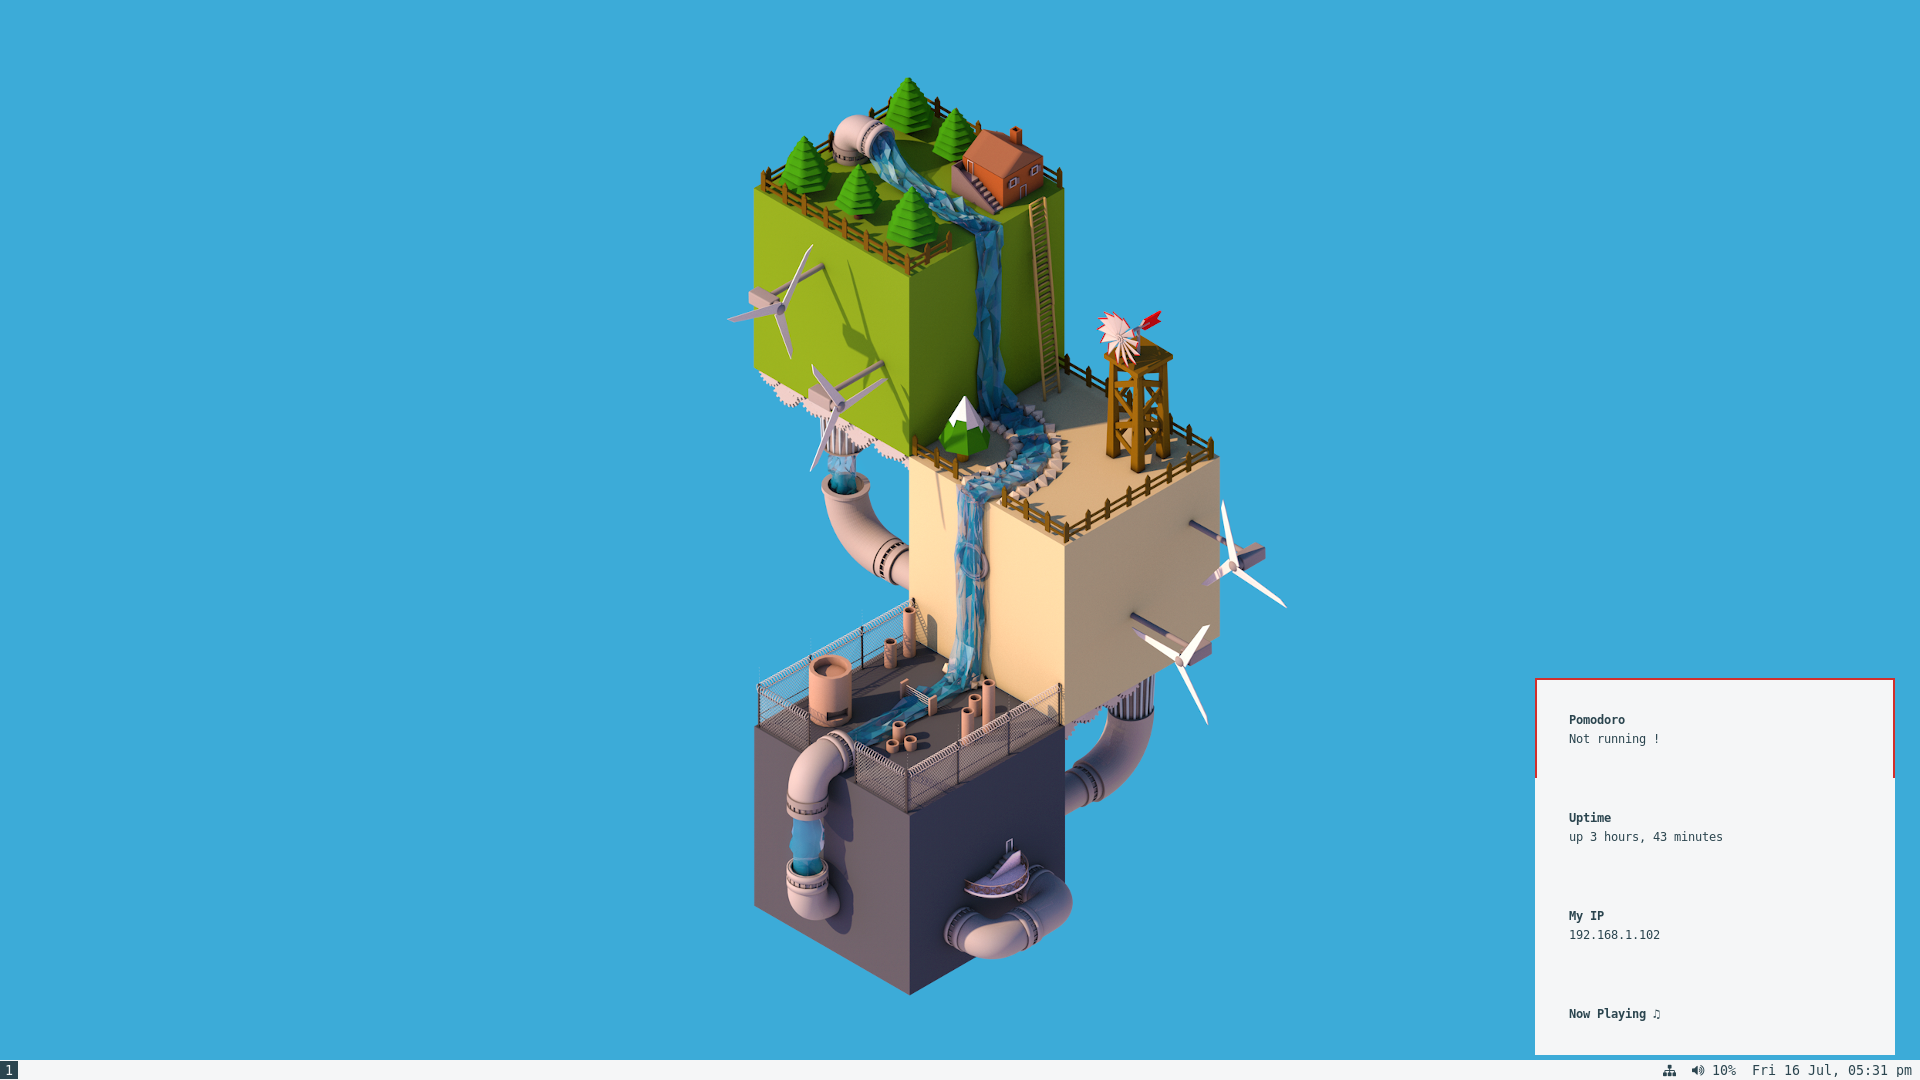
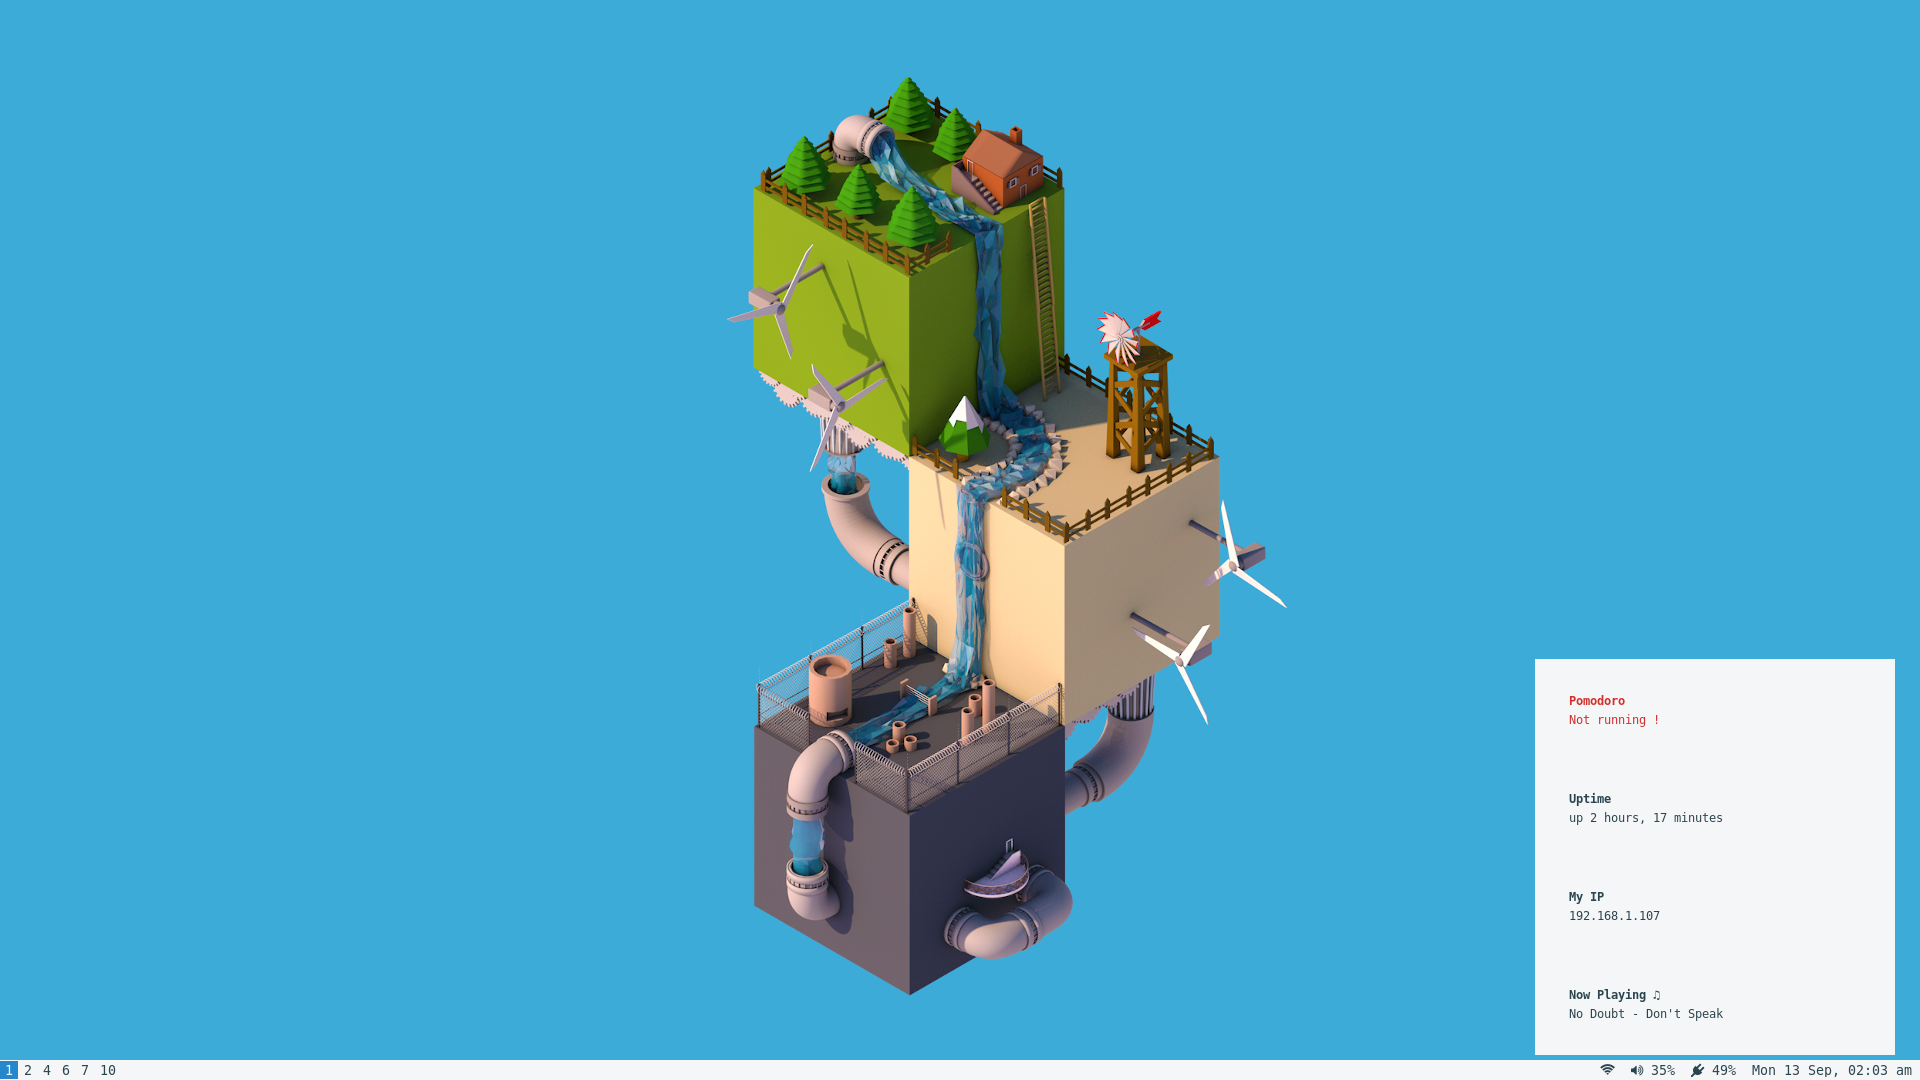
update - i3bar blue and pewter color - new screenshots - edits needed to work on ntb

diff --git a/README.md b/README.md
@@ -6,7 +6,7 @@ Wallpaper edit from [Keiraarts](https://www.behance.net/gallery/10698789/Isometr
 All colors in the system are by Solarized dark (color scheme).
 
 INFO:
-* **distro:** Ubuntu 20.10 "Groovy Gorilla"
+* **distro:** Ubuntu 20.04 "Focal Fossa" | Ubuntu 20.10 "Groovy Gorilla" | Ubuntu 21.04 "Hirsute Hippo"
 * **wm:** i3
 * **bar:** i3status
 * **lock screen:** i3lock
@@ -22,12 +22,19 @@ INFO:
 
 **RUN ON:**
 
-NTB:
+NTB-old:
 * **ntb:** DELL Latitude E7470
 * **cpu:** Intel Core i7-6600U @ 2x 3.4GHz HT
 * **ram:** 2x8GB DDR4 2133MHz
 * **gpu:** Intel(R) HD Graphics 520 (SKL GT2)
 * **disk:** Samsung 970 EVO NVMe M.2 SSD 500 GB
+
+NTB-new
+* **ntb:** Lenovo IdeaPad 5 14ITL05
+* **cpu:** Intel Core i7-1167G7 @ 4x 4.7GHz HT
+* **ram:** 2x8GB DDR4 3200MHz
+* **gpu:** Intel(R) Iris(R) Xe Graphics (TL GT2)
+* **disk:** SK Hynix BC711 NVMe M.2 SSD 512 GB
 
 PC-old:
 * **pc:** Acer Aspire TC-780
@@ -100,11 +107,10 @@ PC-new:
 | Mod1 + Ctrl + delete               | Activate power mode (reboot, shutdown, suspend, hybernate) |
 | Print                              | Activate print mode                                        |
 | $mod + p                           | Activate display mode                                      |
+| $mod + n                           | Activate notification mode                                 |
 | $mod + m                           | ncmpcpp                                                    |
 | $mod + period                      | ranger                                                     |
-| $mod + mod1 + m                    | notification with npc current playing                      |
-| $mod + mod1 + i                    | notification with IP address                               |
-| $mod + mod1 + p                    | notification with pomodoro status                          |
+| $mod + c                           | pavucontrol                                                |
 | $mod + mod1 + y                    | mpc prev                                                   |
 | XF86AudioPrev                      | mpc prev                                                   |
 | $mod + mod1 + x                    | mpc play                                                   |
@@ -114,7 +120,9 @@ PC-new:
 | XF86AudioStop                      | mpc stop                                                   |
 | $mod + mod1 + b                    | mpc next                                                   |
 | XF86AudioNext                      | mpc next                                                   |
-| XF86Calculator                     | xcalc                                                      |
+| XF86MonBrightnessUp                | xbacklight -inc 10                                         |
+| XF86MonBrightnessDown              | xbacklight -dec 10                                         |
+| XF86Calculator                     | urxvt -name calc -e calc                                   |
 | XF86AudioRaiseVolume               | pactl set-sink-volume @DEFAULT_SINK@ +5%                   |
 | XF86AudioLowerVolume               | pactl set-sink-volume @DEFAULT_SINK@ -5%                   |
 | XF86AudioMute                      | pactl set-sink-mute @DEFAULT_SINK@ toggle                  |
@@ -129,7 +137,7 @@ mod1 = Alt key; mod4 = Win key ($mod)
 ![single desktop](screenshots/desktop_single_monitor.png)
 desktop - single monitor
 
-![htop, mc, screenfetch, ranger](screenshots/htop_mc_screenfetch_ranger.png)
+![htop, ranger, screenfetch, \_\_git\_ps1](screenshots/htop_ranger_screenfetch_gitps1.png)
 htop, mc, screenfetch, ranger
 
 ![i3 lock](screenshots/i3lock.png)
